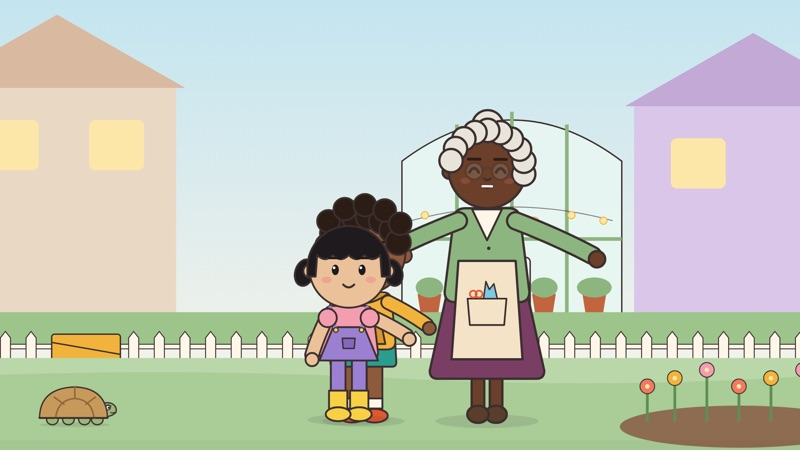
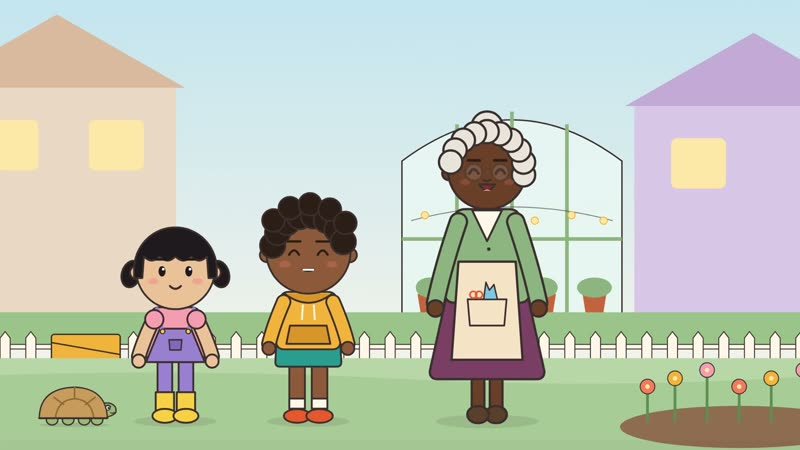
Website: new garden still (side by side), no rainbow stills

diff --git a/docs/songs.html b/docs/songs.html
@@ -49,7 +49,7 @@
         <div class="actions"><a class="btn btn--primary" href="https://www.youtube.com/@SparrowStreetStories">Watch on YouTube</a></div>
       </div>
       <figure class="hero__picture sheet-photo">
-        <img src="img/nook-song.jpg" srcset="img/nook-song-800.jpg 800w, img/nook-song.jpg 1600w" sizes="(max-width: 60rem) 100vw, 64vw" width="1600" height="900" alt="Ezra, Hana and Nana Wren singing in the Story Nook under a paper rainbow" fetchpriority="high">
+        <img src="img/verse-come.jpg" srcset="img/verse-come-800.jpg 800w, img/verse-come.jpg 1600w" sizes="(max-width: 60rem) 100vw, 64vw" width="1600" height="900" alt="Ezra, Hana and their friends with arms up, singing under the memory verse card: Allow the little children to come to me! Mark 10:14" fetchpriority="high">
       </figure>
     </div>
   </section>

diff --git a/docs/support.html b/docs/support.html
@@ -52,7 +52,7 @@
         <p class="give-note">You choose the amount. Checkout is by Stripe.</p>
       </div>
       <figure class="hero__picture sheet-photo">
-        <img src="img/nook-song.jpg" srcset="img/nook-song-800.jpg 800w, img/nook-song.jpg 1600w" sizes="(max-width: 60rem) 100vw, 64vw" width="1600" height="900" alt="Ezra, Hana and Nana Wren singing in the Story Nook under a paper rainbow" fetchpriority="high">
+        <img src="img/verse-neighbour.jpg" srcset="img/verse-neighbour-800.jpg 800w, img/verse-neighbour.jpg 1600w" sizes="(max-width: 60rem) 100vw, 64vw" width="1600" height="900" alt="Nana Wren, Hana, Ezra and their friend singing in the garden under the memory verse card: You shall love your neighbour as yourself. Matthew 22:39" fetchpriority="high">
       </figure>
     </div>
   </section>
